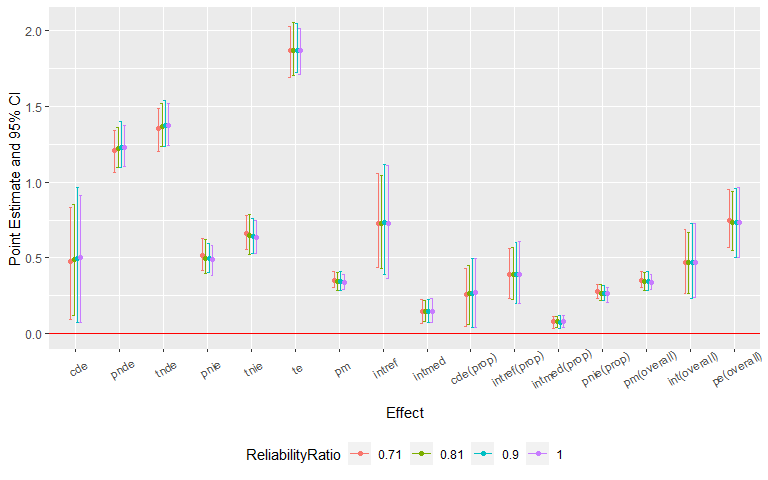
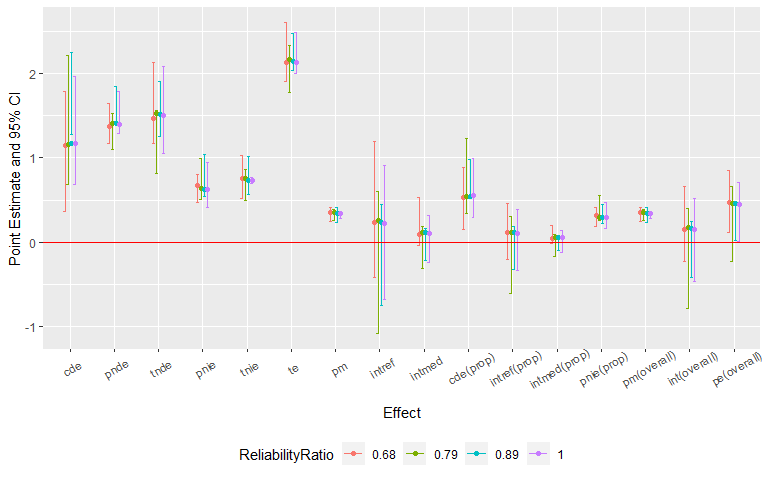
update README

diff --git a/README.md b/README.md
@@ -348,7 +348,7 @@ scientific setting. The simulated dataset contains a binary exposure, a
 binary mediator, a continuous mediator, a continuous outcome and two
 pre-exposure confounders.
 
-    n <- 1000
+    n <- 100
     C1 <- rnorm(n, mean = 1, sd = 1)
     C2 <- rbinom(n, 1, 0.6)
     C2[which(C2 == 0)] <- "C2_0"
@@ -382,7 +382,7 @@ mediators are set to be 0.
                     mediator = c("M1", "M2"), prec = c("C1", "C2"), EMint = TRUE,
                     mreg = list("logistic", "linear"), yreg = "linear",
                     astar = 0, a = 1, mval = list(0, 0),
-                    estimation = "imputation", inference = "bootstrap", nboot = 200)
+                    estimation = "imputation", inference = "bootstrap", nboot = 5)
 
 Summarizing and plotting the results:
 
@@ -394,23 +394,23 @@ Summarizing and plotting the results:
     ## Direct counterfactual imputation estimation with 
     ##  bootstrap standard errors, percentile confidence intervals and p-values 
     ##  
-    ##              Estimate Std.error 95% CIL 95% CIU  P.val    
-    ## cde           0.50192   0.21744 0.07152   0.911   0.03 *  
-    ## pnde          1.23082   0.07086 1.10602   1.376 <2e-16 ***
-    ## tnde          1.37577   0.07457 1.24440   1.522 <2e-16 ***
-    ## pnie          0.49086   0.05204 0.38308   0.583 <2e-16 ***
-    ## tnie          0.63581   0.05862 0.52685   0.748 <2e-16 ***
-    ## te            1.86663   0.07704 1.70766   2.014 <2e-16 ***
-    ## pm            0.34062   0.02734 0.28965   0.390 <2e-16 ***
-    ## intref        0.72890   0.19583 0.36740   1.110 <2e-16 ***
-    ## intmed        0.14495   0.04033 0.07272   0.230 <2e-16 ***
-    ## cde(prop)     0.26889   0.11424 0.03848   0.497   0.03 *  
-    ## intref(prop)  0.39049   0.10565 0.19740   0.612 <2e-16 ***
-    ## intmed(prop)  0.07765   0.02106 0.03812   0.119 <2e-16 ***
-    ## pnie(prop)    0.26296   0.02568 0.20630   0.308 <2e-16 ***
-    ## pm(overall)   0.34062   0.02734 0.28965   0.390 <2e-16 ***
-    ## int(overall)  0.46815   0.12493 0.23719   0.725 <2e-16 ***
-    ## pe(overall)   0.73111   0.11424 0.50267   0.962 <2e-16 ***
+    ##              Estimate Std.error  95% CIL 95% CIU  P.val    
+    ## cde           1.17459   0.53531  0.68139   1.974 <2e-16 ***
+    ## pnde          1.39918   0.19326  1.29555   1.789 <2e-16 ***
+    ## tnde          1.50415   0.42203  1.05283   2.081 <2e-16 ***
+    ## pnie          0.62669   0.23461  0.41185   0.949 <2e-16 ***
+    ## tnie          0.73166   0.02742  0.69836   0.764 <2e-16 ***
+    ## te            2.13084   0.19402  2.00179   2.493 <2e-16 ***
+    ## pm            0.34337   0.02830  0.28188   0.353 <2e-16 ***
+    ## intref        0.22459   0.65907 -0.67796   0.908    0.8    
+    ## intmed        0.10497   0.24521 -0.24273   0.319    0.8    
+    ## cde(prop)     0.55123   0.28345  0.28815   0.988 <2e-16 ***
+    ## intref(prop)  0.10540   0.29847 -0.34096   0.388    0.8    
+    ## intmed(prop)  0.04926   0.11022 -0.12237   0.136    0.8    
+    ## pnie(prop)    0.29411   0.13171  0.16537   0.475 <2e-16 ***
+    ## pm(overall)   0.34337   0.02830  0.28188   0.353 <2e-16 ***
+    ## int(overall)  0.15466   0.40716 -0.46333   0.524    0.8    
+    ## pe(overall)   0.44877   0.28345  0.01211   0.712    0.4    
     ## ---
     ## Signif. codes:  0 '***' 0.001 '**' 0.01 '*' 0.05 '.' 0.1 ' ' 1
 
@@ -428,12 +428,12 @@ analysis for unmeasured confounding:
     ## 
     ## Evalues on the ratio scale: 
     ##         estRR  lowerRR  upperRR Evalue.estRR Evalue.lowerRR Evalue.upperRR
-    ## cde  1.217625 1.030504 1.438722     1.732392       1.207803             NA
-    ## pnde 1.620686 1.534912 1.711254     2.623650       2.441026             NA
-    ## tnde 1.715515 1.620100 1.816549     2.823430       2.622409             NA
-    ## pnie 1.212352 1.164894 1.261743     1.719743       1.603169             NA
-    ## tnie 1.283289 1.226843 1.342331     1.886233       1.754386             NA
-    ## te   2.079808 1.960424 2.206463     3.578405       3.332589             NA
+    ## cde  1.553689 1.048991 2.301212     2.481192       1.275687             NA
+    ## pnde 1.690263 1.466784 1.947790     2.770413       2.294233             NA
+    ## tnde 1.758151 1.289928 2.396331     2.912682       1.901472             NA
+    ## pnie 1.265029 1.064965 1.502678     1.844054       1.327996             NA
+    ## tnie 1.315838 1.289627 1.342583     1.960503       1.900782             NA
+    ## te   2.224112 1.928982 2.564397     3.874132       3.267634             NA
 
 Assume that the continuous pre-exposure confounder was measured with
 error. Sensitivity analysis using regression calibration with a set of
@@ -454,23 +454,23 @@ Summarizing and plotting the results:
     ## Measurement error 1: 
     ## 0.1
     ## Measurement error correction for measurement error 1: 
-    ##              Estimate Std.error 95% CIL 95% CIU  P.val    
-    ## cde           0.49960   0.21135 0.07527   0.967   0.04 *  
-    ## pnde          1.23013   0.07929 1.09667   1.397 <2e-16 ***
-    ## tnde          1.37450   0.07663 1.23527   1.541 <2e-16 ***
-    ## pnie          0.49434   0.05377 0.40500   0.595 <2e-16 ***
-    ## tnie          0.63872   0.06288 0.52792   0.758 <2e-16 ***
-    ## te            1.86884   0.08220 1.72517   2.048 <2e-16 ***
-    ## pm            0.34177   0.03034 0.28742   0.412 <2e-16 ***
-    ## intref        0.73052   0.17646 0.39263   1.119 <2e-16 ***
-    ## intmed        0.14437   0.03780 0.07347   0.228 <2e-16 ***
-    ## cde(prop)     0.26733   0.10963 0.04101   0.499   0.04 *  
-    ## intref(prop)  0.39090   0.09625 0.19737   0.603 <2e-16 ***
-    ## intmed(prop)  0.07725   0.02004 0.03716   0.122 <2e-16 ***
-    ## pnie(prop)    0.26452   0.02588 0.21814   0.316 <2e-16 ***
-    ## pm(overall)   0.34177   0.03034 0.28742   0.412 <2e-16 ***
-    ## int(overall)  0.46815   0.11494 0.23475   0.725 <2e-16 ***
-    ## pe(overall)   0.73267   0.10963 0.50129   0.959 <2e-16 ***
+    ##              Estimate Std.error  95% CIL 95% CIU  P.val    
+    ## cde           1.17169   0.42496  1.27380   2.251 <2e-16 ***
+    ## pnde          1.40351   0.19121  1.43186   1.845 <2e-16 ***
+    ## tnde          1.51419   0.31066  1.25608   1.904 <2e-16 ***
+    ## pnie          0.62698   0.22821  0.54093   1.036 <2e-16 ***
+    ## tnie          0.73766   0.19644  0.56305   1.017 <2e-16 ***
+    ## te            2.14117   0.19242  2.04235   2.483 <2e-16 ***
+    ## pm            0.34451   0.07107  0.23773   0.411 <2e-16 ***
+    ## intref        0.23182   0.51369 -0.75049   0.442    0.8    
+    ## intmed        0.11068   0.16890 -0.21946   0.158    0.8    
+    ## cde(prop)     0.54722   0.22266  0.51941   0.979 <2e-16 ***
+    ## intref(prop)  0.10827   0.22368 -0.32552   0.181    0.8    
+    ## intmed(prop)  0.05169   0.07391 -0.09542   0.065    0.8    
+    ## pnie(prop)    0.29282   0.10164  0.22122   0.442 <2e-16 ***
+    ## pm(overall)   0.34451   0.07107  0.23773   0.411 <2e-16 ***
+    ## int(overall)  0.15996   0.29646 -0.42095   0.244    0.8    
+    ## pe(overall)   0.45278   0.22266  0.02074   0.481 <2e-16 ***
     ## ---
     ## Signif. codes:  0 '***' 0.001 '**' 0.01 '*' 0.05 '.' 0.1 ' ' 1
     ## ----------------------------------------------------------------
@@ -478,23 +478,23 @@ Summarizing and plotting the results:
     ## Measurement error 2: 
     ## 0.2
     ## Measurement error correction for measurement error 2: 
-    ##              Estimate Std.error 95% CIL 95% CIU  P.val    
-    ## cde           0.49219   0.19219 0.11754   0.853   0.01 ** 
-    ## pnde          1.21853   0.07155 1.09341   1.360 <2e-16 ***
-    ## tnde          1.36615   0.07560 1.23568   1.518 <2e-16 ***
-    ## pnie          0.49865   0.05854 0.40067   0.618 <2e-16 ***
-    ## tnie          0.64627   0.06866 0.52092   0.786 <2e-16 ***
-    ## te            1.86480   0.08819 1.70322   2.050 <2e-16 ***
-    ## pm            0.34656   0.02975 0.28861   0.403 <2e-16 ***
-    ## intref        0.72634   0.16973 0.42906   1.045 <2e-16 ***
-    ## intmed        0.14762   0.03615 0.07958   0.222 <2e-16 ***
-    ## cde(prop)     0.26394   0.10150 0.06426   0.450   0.01 ** 
-    ## intref(prop)  0.38950   0.09215 0.22538   0.569 <2e-16 ***
-    ## intmed(prop)  0.07916   0.01854 0.04289   0.113 <2e-16 ***
-    ## pnie(prop)    0.26740   0.02672 0.22060   0.328 <2e-16 ***
-    ## pm(overall)   0.34656   0.02975 0.28861   0.403 <2e-16 ***
-    ## int(overall)  0.46866   0.10863 0.26379   0.668 <2e-16 ***
-    ## pe(overall)   0.73606   0.10150 0.54965   0.936 <2e-16 ***
+    ##              Estimate Std.error  95% CIL 95% CIU  P.val    
+    ## cde           1.16216   0.64294  0.67874   2.213 <2e-16 ***
+    ## pnde          1.41354   0.18376  1.09612   1.527 <2e-16 ***
+    ## tnde          1.53073   0.32282  0.81324   1.564 <2e-16 ***
+    ## pnie          0.63391   0.21477  0.50265   0.993 <2e-16 ***
+    ## tnie          0.75110   0.14702  0.49137   0.867 <2e-16 ***
+    ## te            2.16464   0.23838  1.77750   2.339 <2e-16 ***
+    ## pm            0.34699   0.05818  0.25401   0.388 <2e-16 ***
+    ## intref        0.25138   0.69229 -1.08956   0.604    0.8    
+    ## intmed        0.11719   0.20510 -0.30831   0.184    0.8    
+    ## cde(prop)     0.53689   0.36890  0.33685   1.232 <2e-16 ***
+    ## intref(prop)  0.11613   0.37169 -0.61253   0.307    0.8    
+    ## intmed(prop)  0.05414   0.10893 -0.17322   0.093    0.8    
+    ## pnie(prop)    0.29285   0.12760  0.25791   0.554 <2e-16 ***
+    ## pm(overall)   0.34699   0.05818  0.25401   0.388 <2e-16 ***
+    ## int(overall)  0.17027   0.48049 -0.78575   0.400    0.8    
+    ## pe(overall)   0.46311   0.36890 -0.23206   0.663    0.4    
     ## ---
     ## Signif. codes:  0 '***' 0.001 '**' 0.01 '*' 0.05 '.' 0.1 ' ' 1
     ## ----------------------------------------------------------------
@@ -502,23 +502,23 @@ Summarizing and plotting the results:
     ## Measurement error 3: 
     ## 0.3
     ## Measurement error correction for measurement error 3: 
-    ##              Estimate Std.error 95% CIL 95% CIU  P.val    
-    ## cde           0.47807   0.18633 0.09341   0.830   0.02 *  
-    ## pnde          1.20710   0.07228 1.06028   1.343 <2e-16 ***
-    ## tnde          1.35412   0.07359 1.20259   1.489 <2e-16 ***
-    ## pnie          0.51579   0.05598 0.41954   0.628 <2e-16 ***
-    ## tnie          0.66281   0.06486 0.55487   0.780 <2e-16 ***
-    ## te            1.86991   0.08485 1.69052   2.027 <2e-16 ***
-    ## pm            0.35446   0.02911 0.30183   0.409 <2e-16 ***
-    ## intref        0.72903   0.15875 0.43605   1.058 <2e-16 ***
-    ## intmed        0.14702   0.03629 0.06704   0.225 <2e-16 ***
-    ## cde(prop)     0.25566   0.09751 0.04960   0.429   0.02 *  
-    ## intref(prop)  0.38988   0.08653 0.23359   0.559 <2e-16 ***
-    ## intmed(prop)  0.07862   0.01895 0.03674   0.115 <2e-16 ***
-    ## pnie(prop)    0.27584   0.02599 0.23033   0.327 <2e-16 ***
-    ## pm(overall)   0.35446   0.02911 0.30183   0.409 <2e-16 ***
-    ## int(overall)  0.46850   0.10381 0.26742   0.686 <2e-16 ***
-    ## pe(overall)   0.74434   0.09751 0.57051   0.950 <2e-16 ***
+    ##              Estimate Std.error  95% CIL 95% CIU  P.val    
+    ## cde           1.14291   0.61185  0.36771   1.793 <2e-16 ***
+    ## pnde          1.37940   0.21990  1.16800   1.649 <2e-16 ***
+    ## tnde          1.46802   0.40561  1.17071   2.131 <2e-16 ***
+    ## pnie          0.66897   0.14360  0.47438   0.806 <2e-16 ***
+    ## tnie          0.75759   0.20441  0.52259   1.025 <2e-16 ***
+    ## te            2.13699   0.29950  1.91225   2.605 <2e-16 ***
+    ## pm            0.35451   0.07054  0.24337   0.409 <2e-16 ***
+    ## intref        0.23649   0.69522 -0.41977   1.200    0.8    
+    ## intmed        0.08862   0.25827 -0.04470   0.530    0.8    
+    ## cde(prop)     0.53482   0.30879  0.15104   0.883 <2e-16 ***
+    ## intref(prop)  0.11067   0.28828 -0.20670   0.458    0.8    
+    ## intmed(prop)  0.04147   0.09834 -0.02196   0.201    0.8    
+    ## pnie(prop)    0.31304   0.09243  0.18300   0.408 <2e-16 ***
+    ## pm(overall)   0.35451   0.07054  0.24337   0.409 <2e-16 ***
+    ## int(overall)  0.15214   0.38122 -0.22867   0.659    0.8    
+    ## pe(overall)   0.46518   0.30879  0.11729   0.849 <2e-16 ***
     ## ---
     ## Signif. codes:  0 '***' 0.001 '**' 0.01 '*' 0.05 '.' 0.1 ' ' 1
     ## ----------------------------------------------------------------
@@ -532,7 +532,7 @@ Then, assume that the exposure was measured with error. Sensitivity
 analysis using MCSIMEX with two assumed misclassification matrices:
 
     me2 <- cmsens(object = est, sens = "me", MEmethod = "simex", MEvariable = "A", 
-                  MEvartype = "cat", B = 200,
+                  MEvartype = "cat", B = 5,
                   MEerror = list(matrix(c(0.95, 0.05, 0.05, 0.95), nrow = 2), 
                                  matrix(c(0.9, 0.1, 0.1, 0.9), nrow = 2)))
 
@@ -551,23 +551,23 @@ Summarizing and plotting the results:
     ## [2,] 0.05 0.95
     ## 
     ## Measurement error correction for measurement error 1: 
-    ##              Estimate Std.error 95% CIL 95% CIU  P.val    
-    ## cde           0.67069   0.24454 0.21348   1.121   0.01 ** 
-    ## pnde          1.44012   0.09013 1.26336   1.613 <2e-16 ***
-    ## tnde          1.61731   0.08573 1.46060   1.765 <2e-16 ***
-    ## pnie          0.49755   0.05453 0.38354   0.600 <2e-16 ***
-    ## tnie          0.67473   0.06564 0.55013   0.797 <2e-16 ***
-    ## te            2.11485   0.09240 1.91705   2.296 <2e-16 ***
-    ## pm            0.31905   0.02892 0.27102   0.375 <2e-16 ***
-    ## intref        0.76943   0.19887 0.39908   1.164 <2e-16 ***
-    ## intmed        0.17719   0.04684 0.08191   0.272 <2e-16 ***
-    ## cde(prop)     0.31713   0.11199 0.10436   0.519   0.01 ** 
-    ## intref(prop)  0.36382   0.09796 0.18080   0.575 <2e-16 ***
-    ## intmed(prop)  0.08378   0.02226 0.03916   0.127 <2e-16 ***
-    ## pnie(prop)    0.23526   0.02383 0.18933   0.281 <2e-16 ***
-    ## pm(overall)   0.31905   0.02892 0.27102   0.375 <2e-16 ***
-    ## int(overall)  0.44761   0.11849 0.22828   0.690 <2e-16 ***
-    ## pe(overall)   0.68287   0.11199 0.48118   0.896 <2e-16 ***
+    ##               Estimate Std.error   95% CIL 95% CIU  P.val    
+    ## cde           1.299346  0.917404 -0.076859   2.124    0.4    
+    ## pnde          1.722116  0.383165  1.278920   2.192 <2e-16 ***
+    ## tnde          1.803719  0.353699  1.517920   2.360 <2e-16 ***
+    ## pnie          0.603751  0.133795  0.364847   0.684 <2e-16 ***
+    ## tnie          0.685354  0.268021  0.525898   1.142 <2e-16 ***
+    ## te            2.407470  0.282048  2.110094   2.750 <2e-16 ***
+    ## pm            0.284678  0.109453  0.195756   0.470 <2e-16 ***
+    ## intref        0.422770  0.792768 -0.595356   1.358    0.4    
+    ## intmed        0.081603  0.182351  0.012906   0.471    0.4    
+    ## cde(prop)     0.539714  0.409319 -0.027630   0.992    0.4    
+    ## intref(prop)  0.175608  0.346524 -0.282760   0.561    0.4    
+    ## intmed(prop)  0.033896  0.075237  0.004270   0.194    0.4    
+    ## pnie(prop)    0.250782  0.065678  0.135876   0.288 <2e-16 ***
+    ## pm(overall)   0.284678  0.109453  0.195756   0.470 <2e-16 ***
+    ## int(overall)  0.209503  0.410575 -0.274036   0.752    0.4    
+    ## pe(overall)   0.460286  0.409319  0.007879   1.028    0.4    
     ## ---
     ## Signif. codes:  0 '***' 0.001 '**' 0.01 '*' 0.05 '.' 0.1 ' ' 1
     ## ----------------------------------------------------------------
@@ -578,23 +578,23 @@ Summarizing and plotting the results:
     ## [2,]  0.1  0.9
     ## 
     ## Measurement error correction for measurement error 2: 
-    ##              Estimate Std.error 95% CIL 95% CIU  P.val    
-    ## cde           0.83047   0.28236 0.29720   1.375 <2e-16 ***
-    ## pnde          1.65142   0.09630 1.47902   1.836 <2e-16 ***
-    ## tnde          1.86738   0.09925 1.68033   2.066 <2e-16 ***
-    ## pnie          0.49659   0.05870 0.37617   0.623 <2e-16 ***
-    ## tnie          0.71255   0.07099 0.57810   0.861 <2e-16 ***
-    ## te            2.36397   0.10177 2.19258   2.577 <2e-16 ***
-    ## pm            0.30142   0.02709 0.24741   0.345 <2e-16 ***
-    ## intref        0.82095   0.23563 0.34472   1.287 <2e-16 ***
-    ## intmed        0.21596   0.06292 0.08951   0.330 <2e-16 ***
-    ## cde(prop)     0.35130   0.11686 0.12748   0.589 <2e-16 ***
-    ## intref(prop)  0.34727   0.10228 0.14611   0.550 <2e-16 ***
-    ## intmed(prop)  0.09135   0.02628 0.03898   0.144 <2e-16 ***
-    ## pnie(prop)    0.21007   0.02353 0.16158   0.253 <2e-16 ***
-    ## pm(overall)   0.30142   0.02709 0.24741   0.345 <2e-16 ***
-    ## int(overall)  0.43863   0.12687 0.18057   0.678 <2e-16 ***
-    ## pe(overall)   0.64870   0.11686 0.41101   0.873 <2e-16 ***
+    ##              Estimate Std.error  95% CIL 95% CIU  P.val    
+    ## cde           1.69191   1.55403  0.83724   4.125 <2e-16 ***
+    ## pnde          1.94798   0.44619  1.92078   2.870 <2e-16 ***
+    ## tnde          2.00625   0.21264  1.98168   2.522 <2e-16 ***
+    ## pnie          0.54690   0.24256  0.15710   0.741 <2e-16 ***
+    ## tnie          0.60517   0.33098 -0.05869   0.723    0.4    
+    ## te            2.55315   0.27626  2.40985   3.068 <2e-16 ***
+    ## pm            0.23703   0.12246 -0.01836   0.272    0.4    
+    ## intref        0.25607   1.12816 -1.25543   1.116    0.8    
+    ## intmed        0.05827   0.30764 -0.34757   0.359    0.8    
+    ## cde(prop)     0.66268   0.50767  0.34377   1.462 <2e-16 ***
+    ## intref(prop)  0.10030   0.41712 -0.44493   0.462    0.8    
+    ## intmed(prop)  0.02282   0.11485 -0.12370   0.136    0.8    
+    ## pnie(prop)    0.21420   0.07900  0.06391   0.243 <2e-16 ***
+    ## pm(overall)   0.23703   0.12246 -0.01836   0.272    0.4    
+    ## int(overall)  0.12312   0.52432 -0.56863   0.587    0.8    
+    ## pe(overall)   0.33732   0.50767 -0.46219   0.656    0.8    
     ## ---
     ## Signif. codes:  0 '***' 0.001 '**' 0.01 '*' 0.05 '.' 0.1 ' ' 1
     ## ----------------------------------------------------------------
